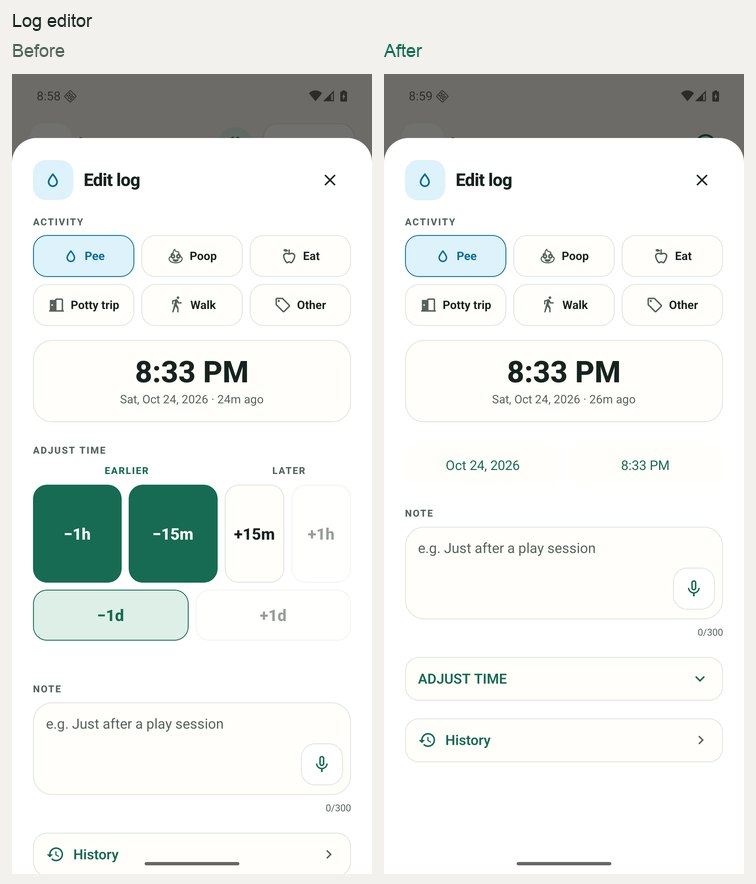
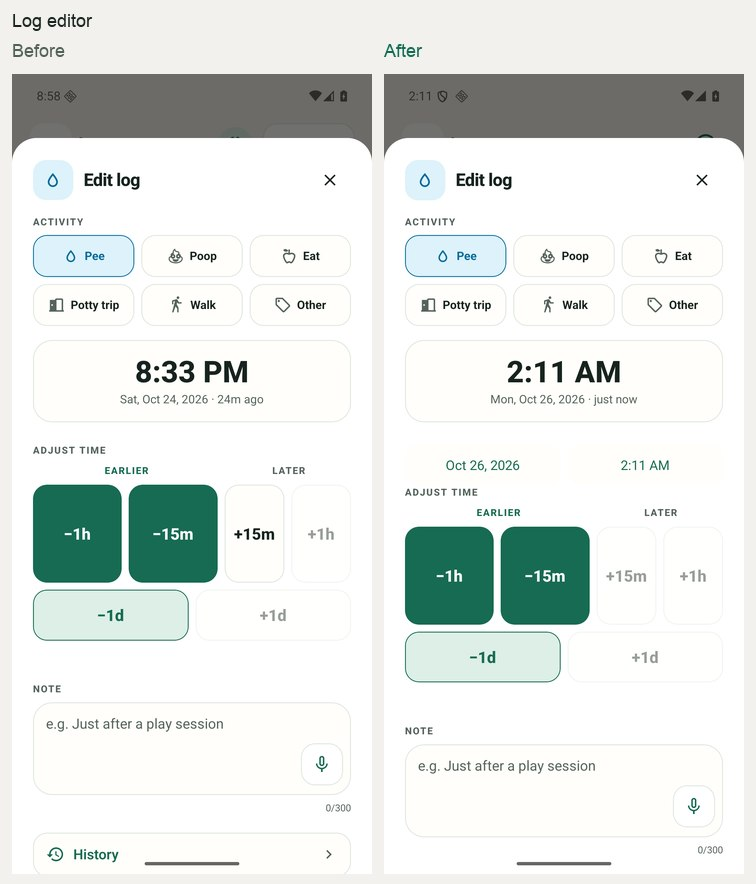
Restore expanded time adjustments above log notes

diff --git a/src/screens/LogScreen.tsx b/src/screens/LogScreen.tsx
@@ -131,7 +131,6 @@ export function LogScreen({
   const requestHandled=useRef(onEditRequestHandled);requestHandled.current=onEditRequestHandled;
   const [requestAttempt,setRequestAttempt]=useState(0);
   const [nativePicker,setNativePicker]=useState<'date'|'time'|null>(null);
-  const [showAdjustments,setShowAdjustments]=useState(false);
   const [draft, setDraft] = useState<Draft | null>(null);
   const [pendingDelete, setPendingDelete] = useState<PuppyEvent | null>(null);
   const [deleting, setDeleting] = useState(false);
@@ -178,7 +177,6 @@ export function LogScreen({
     setHistoryOpen(false);
     setFocusNote(shouldFocusNote);
     setCustomTouched(false);
-    setShowAdjustments(false);
     setNativePicker(null);
     const next = createDraft(event);
     draftSaverRef.current=createEventEditor(event,changes=>onSaveRef.current(event,changes));
@@ -827,20 +825,6 @@ export function LogScreen({
               {Platform.OS==='android'&&nativePicker?<DateTimePicker value={new Date(activeValue)} mode={nativePicker} presentation="dialog" style={{width:1,height:1}} minimumDate={draft.field==='end'?new Date(draft.at):undefined} maximumDate={new Date(draft.field==='end'?Date.now():typeof draft.endedAt==='number'?draft.endedAt:Date.now())} onDismiss={()=>setNativePicker(null)} onValueChange={(_event,date)=>{setNativePicker(null);if(!closing&&date.getTime()!==activeValue)setDraftTime(date.getTime());}}/>:null}
             </View>:null}
 
-            <Text style={[styles.fieldLabel, styles.noteLabel, { color: theme.textMuted }]}>{t('editor.note')}</Text>
-            {draft ? (
-              <NoteInput
-                key={draft.event.id}
-                autoFocus={focusNote}
-                active={!historyOpen&&!closing}
-                value={draft.note}
-                onBlur={() => void flushAutoSave()}
-                onChangeText={(note) => updateDraft((current) => ({ ...current, note }))}
-                theme={theme}
-              />
-            ) : null}
-            <Pressable testID="editor.adjustments.toggle" accessibilityRole="button" accessibilityLabel={t('editor.adjustTime')} accessibilityState={{expanded:showAdjustments}} onPress={()=>setShowAdjustments(value=>!value)} style={({pressed})=>[styles.historyAction,{borderColor:theme.border,backgroundColor:pressed?theme.primarySoft:theme.surface,borderRadius:theme.presentation.controlRadius}]}><Text style={[styles.historyLabel,{color:theme.primary}]}>{t('editor.adjustTime')}</Text><MaterialCommunityIcons accessible={false} name={showAdjustments?'chevron-up':'chevron-down'} size={22} color={theme.primary}/></Pressable>
-            {showAdjustments||Platform.OS==='web'?<>
             <Text style={[styles.fieldLabel, { color: theme.textMuted }]}>
               {timedNap
                 ? t('editor.adjustField', { field: t(draft?.field === 'end' ? 'editor.end' : 'editor.start') })
@@ -934,7 +918,18 @@ export function LogScreen({
               </View>
             </View>
 
-            </>:null}
+            <Text style={[styles.fieldLabel, styles.noteLabel, { color: theme.textMuted }]}>{t('editor.note')}</Text>
+            {draft ? (
+              <NoteInput
+                key={draft.event.id}
+                autoFocus={focusNote}
+                active={!historyOpen&&!closing}
+                value={draft.note}
+                onBlur={() => void flushAutoSave()}
+                onChangeText={(note) => updateDraft((current) => ({ ...current, note }))}
+                theme={theme}
+              />
+            ) : null}
             {history?<Pressable testID="editor.history" accessibilityRole="button" disabled={closing} accessibilityState={{disabled:closing,busy:closing}} onPress={()=>{void requestHistory();}} style={({pressed})=>[styles.historyAction,{borderColor:theme.border,backgroundColor:pressed?theme.primarySoft:theme.surface,borderRadius:theme.presentation.controlRadius,opacity:closing?0.5:1}]}><MaterialCommunityIcons accessible={false} name="history" size={21} color={theme.primary}/><Text style={[styles.historyLabel,{color:theme.primary}]}>{t('history.open')}</Text><MaterialCommunityIcons accessible={false} name="chevron-right" size={20} color={theme.textMuted}/></Pressable>:null}
           </ScrollView>
           {historyOpen&&history&&draft?<View style={[styles.sheet,styles.historySheet,{backgroundColor:theme.surfaceRaised,borderTopLeftRadius:theme.presentation.cardRadius+6,borderTopRightRadius:theme.presentation.cardRadius+6}]}><EventHistoryPanel data={history} eventId={draft.event.id} cloud={cloud} theme={theme} refreshToken={refreshToken} onBack={()=>{void returnFromHistory();}} onRestored={restoredHistory} onBusyChange={value=>{historyBusy.current=value;}}/></View>:null}

diff --git a/docs/ui-hierarchy.md b/docs/ui-hierarchy.md
@@ -9,7 +9,7 @@ The baseline is `main` at `55d6f64`, after the navigation, pet-photo and account
 | Drawer | Log → Pets → Timeline → Insights → Routine → Notifications → Puppy care. Account and Settings form a separate footer. |
 | Header | Account is the top-right person icon. The pet photo/name appears with pet-specific content and opens Pets. Log/Timeline use a labeled switch below the header. |
 | Pets | Name and photo belong in the pet profile, together with its log count. |
-| Log editor | Native date/time controls and the note come before optional relative-time adjustments. Existing quick adjustments remain available. |
+| Log editor | Native date/time controls and the expanded Adjust time shortcuts appear above Note. Relative-time adjustments remain immediately available. |
 | Timeline | Visible minus, reset and plus controls complement gestures; landscape places them beside the filters. |
 | Insights | Existing summary-to-detail order retained; pet context remains visible. |
 | Routine | With a saved routine, progress and today's plan precede suggestions. An empty routine still leads with suggestions. |
@@ -35,6 +35,7 @@ Production continues to persist one pet. The existing opt-in multi-pet preview f
 - General, Android and iOS TypeScript checks passed; 474 unit tests and 9 web tests passed.
 - Dedicated Android navigation flow passed with 1,000 synthetic events, preserving event fields and exporting all rows to CSV.
 - Production render instrumentation observed 135 event rows: opening the editor caused no row updates; saving a note updated only the edited event. Timeline details preserved unchanged date rows and tracks.
+- Restored Adjust time check: the expanded shortcuts appear above Note; −15m persisted exactly 15 minutes earlier and updated only the edited event among 79 observed rows.
 - Multi-pet preview render checks passed at 375dp with 2× text, including editor opening, autosave and deletion confirmation/cancellation.
 - Dedicated iPhone flow passed across navigation, pet profile, Account, Settings, widget, Routine, Notifications and the native editor. Settings/widget also passed at maximum Dynamic Type.
 - Reviewed narrow layouts, large text, dark appearance, reduced motion and landscape. Native date/time dialogs were checked separately on Android.
